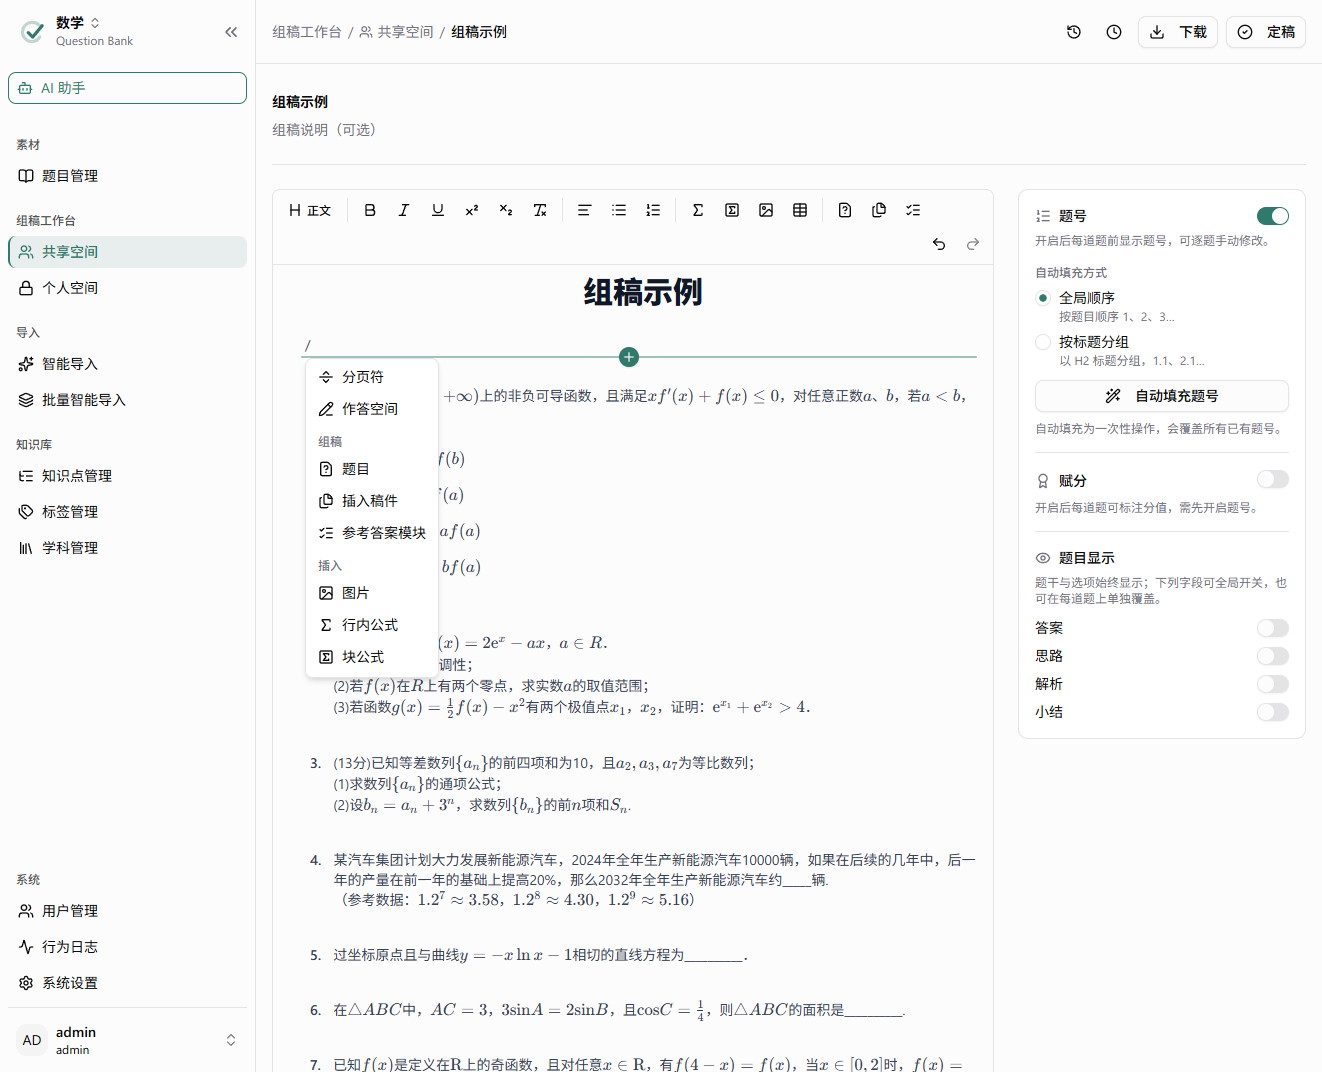
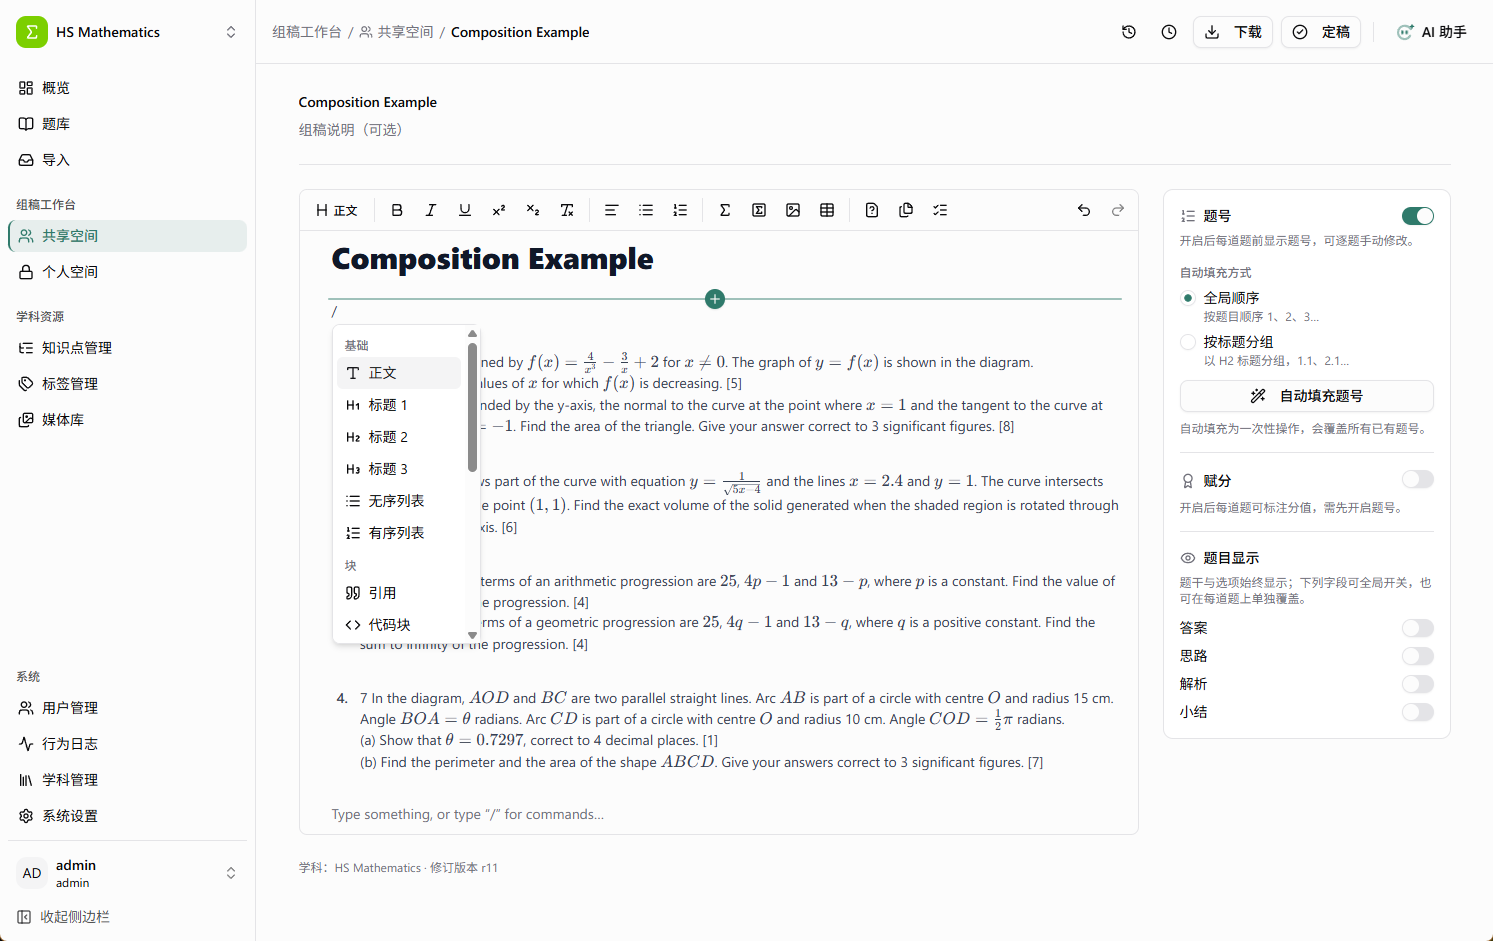
docs: add English screenshots for the English README and docs

diff --git a/README.en.md b/README.en.md
@@ -4,8 +4,8 @@
 
 **QuestionBank** is an AI-native question bank and composition system for teachers and teaching research teams. It covers smart AI import, multi-subject question management, knowledge point matching, review and publishing, and composition layout. It ships as a Windows desktop app and as a server edition, so it works for individual use as well as for collaboration on a LAN or across a team.
 
-![Question bank](./docs/public/examples/questions.png)
-![Compositions](./docs/public/examples/compositions.png)
+![Question bank](./docs/public/examples/questions.en.png)
+![Compositions](./docs/public/examples/compositions.en.png)
 
 ## ✨ Key Features
 

diff --git a/docs/en/index.md b/docs/en/index.md
@@ -6,7 +6,7 @@ hero:
   text: An AI-native question bank system
   tagline: Smart import, multiple question types, multi-provider AI, knowledge point RAG, and a review workflow
   image:
-    src: /examples/questions.png
+    src: /examples/questions.en.png
     alt: QuestionBank
   actions:
     - theme: brand
